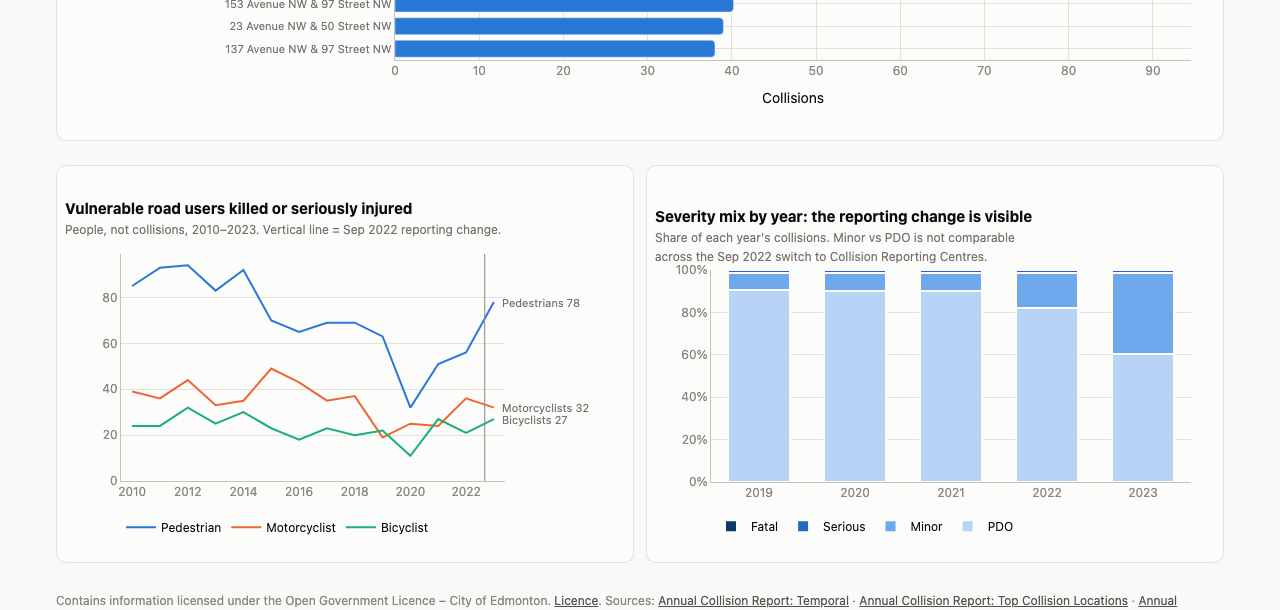
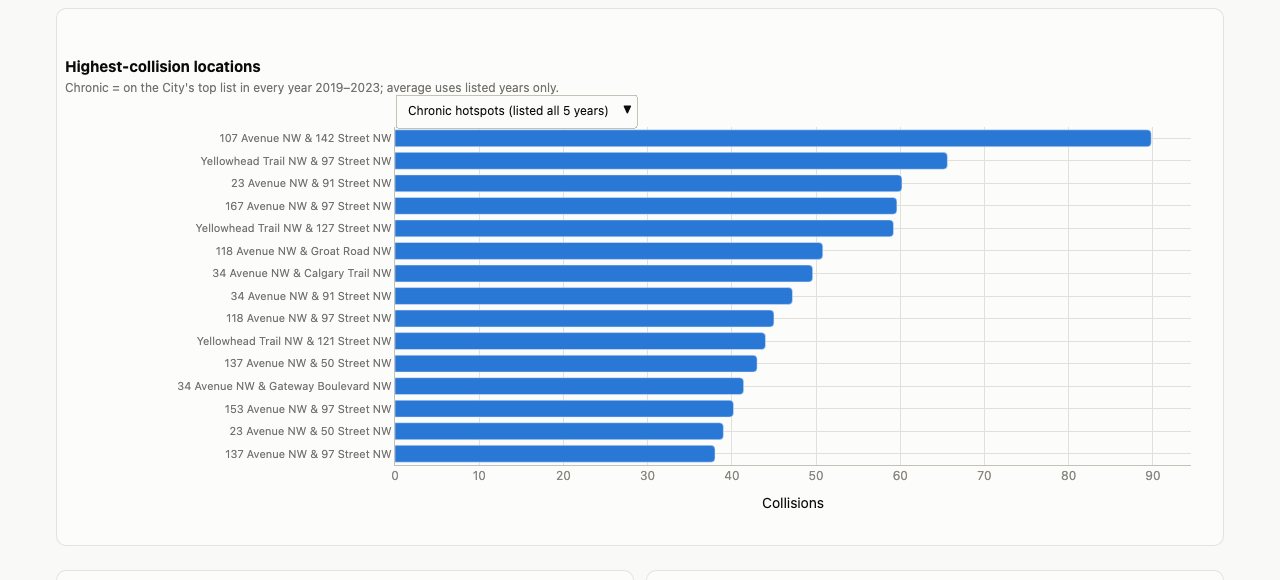
Add Tableau Public build guide and dashboard screenshots

diff --git a/tableau/BUILD_GUIDE.md b/tableau/BUILD_GUIDE.md
@@ -1,0 +1,100 @@
+# Tableau Public Build Guide
+
+How to rebuild the Edmonton Traffic Safety dashboard in **Tableau Public** from the CSV extracts in this folder.
+The extracts are produced by `python -m traffic_safety.pipeline` from the SQL views in `sql/views/`, so the Tableau
+numbers match the Plotly dashboard and the SQL exactly.
+
+> Tableau Public works with file-based data. It cannot keep a live connection to BigQuery, so the workflow is:
+> pipeline refreshes the CSVs, then you re-open the workbook and republish.
+
+---
+
+## 1. Setup (about 10 minutes)
+
+1. Install **Tableau Public** (free desktop app) from <https://public.tableau.com/app/discover> and sign in with a Tableau Public account.
+2. Pull the latest repo so `tableau/*.csv` is current (the weekly GitHub Action refreshes them).
+3. Open Tableau Public, then **Connect → To a File → Text file**, and select `tableau/kpi_annual_summary.csv`.
+4. Add each further extract as its **own data source** (Data menu → New Data Source → Text file). Don't join them;
+   each CSV is already at the grain its chart needs.
+5. For each data source, check the field types in the Data Source tab:
+   - `year`, `month`, `hour_of_day`, `day_of_week_num`, `rank`: **Number (whole)**. Drag `year` to Dimensions
+     (right-click, then Convert to Dimension), so it isn't summed.
+   - `month_start` in `kpi_monthly.csv`: **Date**.
+   - `is_*` fields: **Boolean**.
+
+## 2. Which extract feeds which chart
+
+| # | Sheet name | Extract | Chart type | Columns / Rows / Marks |
+|---|---|---|---|---|
+| 1 | KPI tiles | `kpi_annual_summary.csv` | Text (BANs) | Filter `year` = 2023. Text: `total_collisions`, `fatal_serious_collisions`, `total_fatalities`, `collisions_yoy_pct` |
+| 2 | Long-run trend | `kpi_annual_summary.csv` | Line | Columns: `year` (continuous). Rows: `fatal_serious_collisions_per_100k`. Duplicate the sheet for `collisions_per_100k`. **Do not** put both on a dual axis; use two sheets |
+| 3 | Monthly trend + outliers | `kpi_monthly.csv` | Line + circle | Columns: `month_start` (continuous month). Rows: `collisions`. Then a second mark layer with `collisions` and Color = `is_outlier_month` (True = orange, False = transparent). Tooltip: `ratio_to_other_years`, `same_month_other_years_avg` |
+| 4 | Outlier drill-down | `kpi_month_hour_drilldown.csv` | Bar + line | Columns: `hour_of_day`. Rows: `collisions` (bars) and `same_month_other_years_avg` (line) on a **synchronized** axis. Filters: `year`, `month_name` (single-value dropdown) |
+| 5 | Day × hour heatmap | `kpi_day_hour.csv` | Highlight table / heatmap | Columns: `hour_of_day` (discrete). Rows: `day_of_week` sorted by `day_of_week_num`. Color: SUM(`collisions`), sequential blue. Filter: `year` (multi-select, show as dropdown) |
+| 6 | Severity by hour | `kpi_hourly.csv` | Bar | Columns: `hour_of_day` (discrete). Rows: `fatal_serious_per_1000`. Color: calculated field `Night` (see below) |
+| 7 | Collisions per hour by period | `kpi_hour_group.csv` | Bar | Columns: `hour_group` (manual sort: AM Peak, AM Non-Peak, PM Non-Peak, PM Peak, Evening). Rows: `collisions_per_hour` |
+| 8 | Day of week | `kpi_day_of_week.csv` | Bar | Columns: `day_of_week` sorted by `day_of_week_num`. Rows: `avg_collisions_per_year`. Tooltip: `fatal_serious_per_1000` |
+| 9 | Chronic hotspots | `kpi_location_persistence.csv` | Horizontal bar | Filter `years_listed` = 5. Rows: `location_name` sorted by `avg_collisions_per_listed_year` (descending). Columns: `avg_collisions_per_listed_year` |
+| 10 | Top locations by year | `kpi_top_locations.csv` | Horizontal bar | Filters: `year` (single-value dropdown), `location_group`, `rank` ≤ 10. Rows: `location_name`. Columns: `collision_count` |
+| 11 | Vulnerable road users | `kpi_vulnerable_road_users.csv` | Line (3 series) | Columns: `year`. Rows: calculated `KSI` = `[fatalities] + [serious_injuries]`. Color: `road_user`. Label: line ends only |
+| 12 | Severity mix | `kpi_severity_trend.csv` | 100% stacked bar | Columns: `year` (discrete). Rows: `pct_of_year`. Color: `severity`, sorted by `severity_rank` |
+| 13 | Intersection vs midblock | `kpi_intersection_midblock.csv` | Line or bar | Columns: `year`. Rows: `pct_injuries_at_intersections` |
+
+### Calculated fields
+
+```text
+// Night (sheet 6): highlights the 00:00–05:00 hours
+IF [hour_of_day] <= 4 THEN "00:00–05:00" ELSE "Other hours" END
+
+// KSI (sheet 11): people killed or seriously injured
+[fatalities] + [serious_injuries]
+
+// Reporting period reference line (sheets 2, 3, 11)
+// Add a reference line at year 2022 (or month_start = 2022-09-01) labelled
+// "Sep 2022: new reporting process (CRC)"
+```
+
+## 3. Colours (match the Plotly dashboard)
+
+| Use | Hex |
+|---|---|
+| Main measure (single series) | `#2a78d6` |
+| Highlight / outlier | `#eb6834` |
+| Context (de-emphasized bars) | `#b5b3ab` |
+| Road users: Pedestrian / Motorcyclist / Bicyclist | `#2a78d6` / `#eb6834` / `#1baf7a` |
+| Severity (ordered light to dark): PDO / Minor / Serious / Fatal | `#b7d3f6` / `#6da7ec` / `#256abf` / `#0d366b` |
+| Heatmap | Tableau's built-in **Blue** sequential palette |
+
+Keep gridlines light, remove borders, and avoid dual axes (sheet 4 uses one synchronized axis, which is fine
+because both measures are collisions per hour).
+
+## 4. Dashboard layout (1200 × 1600, "Automatic" for phone)
+
+1. **Header**: title "Edmonton Traffic Safety: When, where and how severely people are hurt" and a one-line description.
+2. **Row 1**: KPI tiles (sheet 1), four across.
+3. **Row 2**: long-run trend (sheet 2, both versions side by side).
+4. **Row 3**: monthly trend (sheet 3). Add a **dashboard action** (Filter, on Select) from sheet 3 to sheet 4 on `year` + `month_name`,
+   so clicking an outlier month drills into its hourly profile.
+5. **Row 4**: day × hour heatmap (sheet 5) with its year filter.
+6. **Row 5**: severity by hour (sheet 6) beside collisions per period (sheet 7).
+7. **Row 6**: chronic hotspots (sheet 9) beside top locations by year (sheet 10).
+8. **Row 7**: vulnerable road users (sheet 11) beside severity mix (sheet 12).
+9. **Footer text box** (required by the licence; copy exactly):
+
+   > Contains information licensed under the Open Government Licence – City of Edmonton.
+   > Source: City of Edmonton Open Data, Annual Collision Report tables (data.edmonton.ca). Independent analysis;
+   > not produced or endorsed by the City of Edmonton. The Sept 2022 change to Collision Reporting Centres affects
+   > severity classification; data is aggregated (no individual collisions or coordinates).
+
+Don't use the City of Edmonton logo or crest; the licence does not permit it.
+
+## 5. Publish
+
+1. **File → Save to Tableau Public As…**, named "Edmonton Traffic Safety (Vision Zero analytics)".
+2. On your Tableau Public profile, open the viz → **Edit Details**: add the GitHub repo link and the attribution line.
+3. Copy the share link into the repo README (section "Dashboards").
+
+## 6. Refresh after new data
+
+1. `python -m traffic_safety.pipeline` (or pull the weekly Action's commit).
+2. In Tableau Public: **Data → Refresh All Extracts** (or re-open the workbook), check the KPI tiles' year filter, and save to Tableau Public again.
